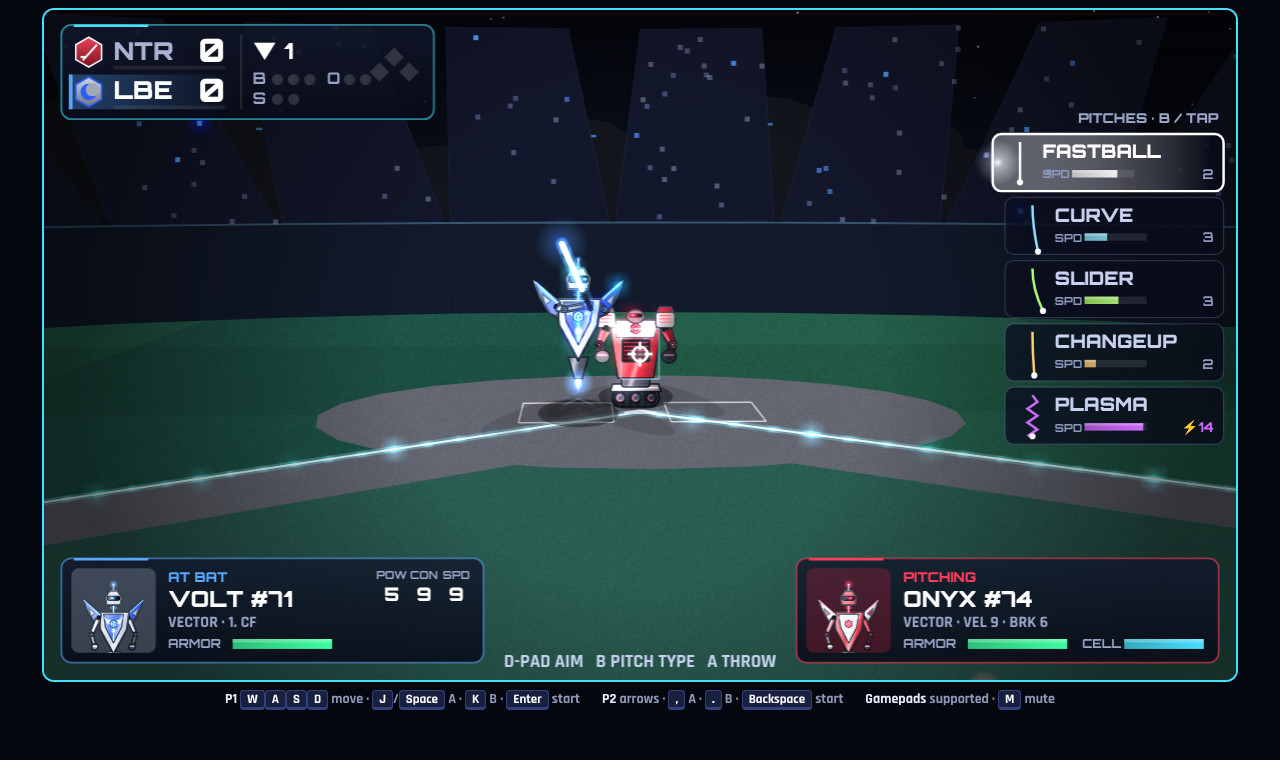
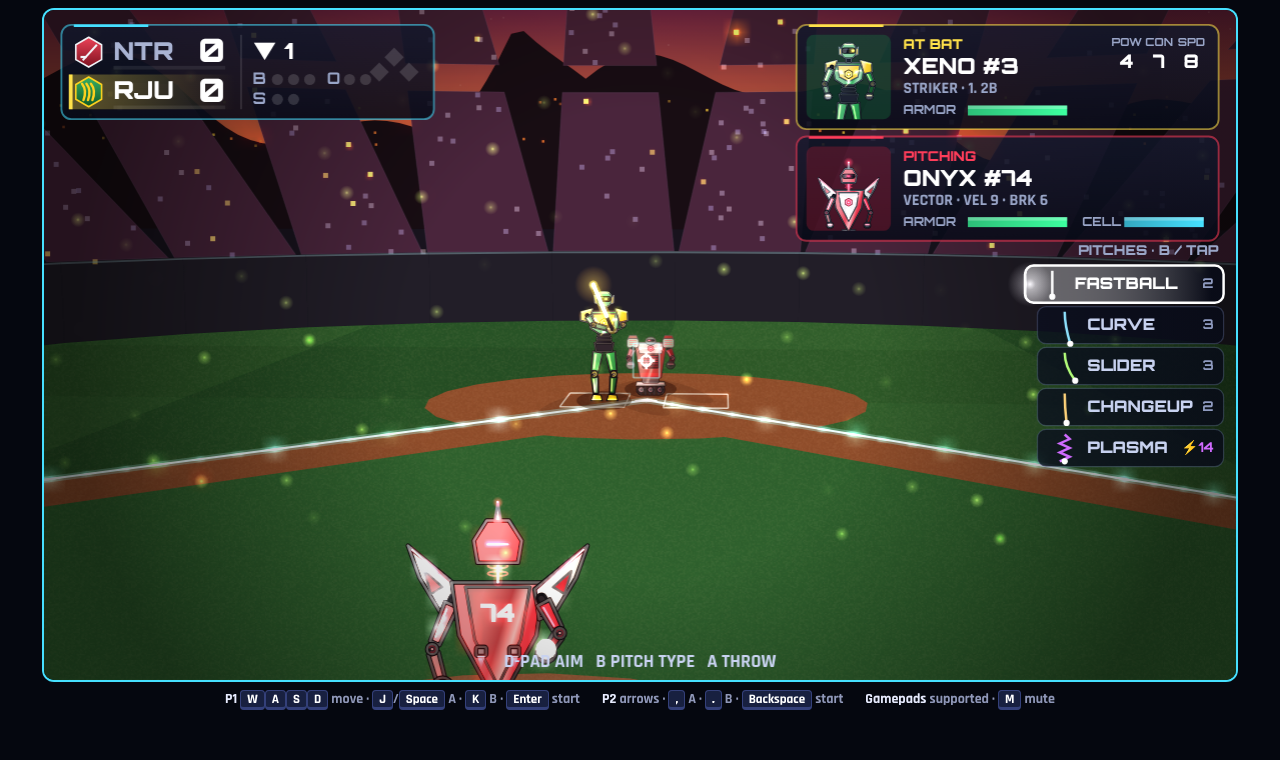
Iron Diamond: no background hiss, thumbstick controls that scale, visible pitcher, announcer fixes
- Audio: removed the constant crowd noise bed; cheers use two warm
  formants through a lowpass with one whistle at lower volume; softer
  music hats/snare and pitch whoosh
- Announcer on by default (migrates old settings), speech unlocked on the
  first tap for iOS, only cancels when already speaking, says Play ball /
  Home run derby / Welcome to training at the start, test line when
  toggled on
- Touch: thumbstick replaces the d-pad; buttons capture the pointer so a
  drifting finger doesn't release them; sizes scale with the screen;
  tablets get the controls below the picture, phones held sideways keep a
  translucent overlay; A/B show context labels (SWING/POWER, PITCH/TYPE,
  THROW, RUN/BACK, STRIKE/HEAVY, SKIP)
- Pitcher view: camera behind and beside the mound so the pitcher's back
  is in the lower left; HUD cards move to the top in that view

Claude-Session: https://claude.ai/code/session_01KT7dpaDVpetdRLu2bBn14i

diff --git a/iron-diamond/src/core.js b/iron-diamond/src/core.js
@@ -86,8 +86,9 @@ const Sfx = {
     this.rev.buffer = ir; const rg = ac.createGain(); rg.gain.value = 0.55; this.rev.connect(rg); rg.connect(this.master);
     const len = ac.sampleRate * 2; this.noiseBuf = ac.createBuffer(1, len, ac.sampleRate);
     const d = this.noiseBuf.getChannelData(0); for (let i = 0; i < len; i++) d[i] = Math.random() * 2 - 1;
-    this.startMusic(); this.crowdBed();
+    this.startMusic(); this.unlockSpeech();
   },
+  unlockSpeech() { try { if (!window.speechSynthesis || this._spk) return; this._spk = true; const u = new SpeechSynthesisUtterance(' '); u.volume = 0; speechSynthesis.speak(u); speechSynthesis.getVoices(); } catch (e) { } },
   toggleMute() { this.muted = !this.muted; store.set('ironDiamond.muted', this.muted); if (this.master) this.master.gain.value = this.muted ? 0 : 0.7; if (this.muted) try { speechSynthesis.cancel(); } catch (e) { } },
   out(node, wet) { node.connect(this.sfx); if (wet) { const g = this.ac.createGain(); g.gain.value = wet; node.connect(g); g.connect(this.rev); } },
   env(g, t, a, peak, d) { g.gain.setValueAtTime(0.0001, t); g.gain.exponentialRampToValueAtTime(peak, t + a); g.gain.exponentialRampToValueAtTime(0.0001, t + a + d); },
@@ -127,12 +128,13 @@ const Sfx = {
   // crowd: noise through vowel-like formants with a soft attack, plus whistles
   swell(dur, vol, base = 1, whistles = 2) {
     if (!this.ac) return; const ac = this.ac, t = ac.currentTime;
-    for (const [f, q, k] of [[520 * base, 2.2, 1], [1150 * base, 2.5, 0.7], [2600 * base, 3, 0.35]]) {
+    for (const [f, q, k] of [[420 * base, 1.4, 1], [880 * base, 1.8, 0.45]]) {
       const src = ac.createBufferSource(); src.buffer = this.noiseBuf; src.loop = true; const fl = ac.createBiquadFilter(); fl.type = 'bandpass'; fl.frequency.value = f; fl.Q.value = q; const g = ac.createGain();
+      const lp = ac.createBiquadFilter(); lp.type = 'lowpass'; lp.frequency.value = 1400; fl.connect(lp);
       g.gain.setValueAtTime(0.0001, t); g.gain.exponentialRampToValueAtTime(vol * k, t + 0.35); g.gain.setValueAtTime(vol * k, t + dur * 0.45); g.gain.exponentialRampToValueAtTime(0.0001, t + dur);
-      src.connect(fl); fl.connect(g); this.out(g, 0.5); src.start(t, Math.random()); src.stop(t + dur + 0.05);
+      src.connect(fl); lp.connect(g); this.out(g, 0.25); src.start(t, Math.random()); src.stop(t + dur + 0.05);
     }
-    for (let i = 0; i < whistles; i++) { const f = 1700 + Math.random() * 900; this.osc('sine', f, 0.35, vol * 0.18, { when: 0.2 + Math.random() * dur * 0.5, to: f * 1.25, attack: 0.05, wet: 0.4 }); }
+    for (let i = 0; i < Math.min(1, whistles); i++) { const f = 1700 + Math.random() * 900; this.osc('sine', f, 0.35, vol * 0.18, { when: 0.2 + Math.random() * dur * 0.5, to: f * 1.25, attack: 0.05, wet: 0.4 }); }
   },
   crowdBed() {
     if (!this.ac || this._bed) return; const ac = this.ac, g = ac.createGain(); g.gain.value = 0.05; this.out(g, 0.6);
@@ -143,7 +145,7 @@ const Sfx = {
   say(text) {
     try {
       if (this.muted || (typeof Game !== 'undefined' && Game.settings && Game.settings.announcer === false) || !window.speechSynthesis) return;
-      speechSynthesis.cancel(); const u = new SpeechSynthesisUtterance(text); u.pitch = 0.35; u.rate = 1.02; u.volume = 0.9;
+      if (speechSynthesis.speaking) speechSynthesis.cancel(); const u = new SpeechSynthesisUtterance(text); u.pitch = 0.35; u.rate = 1.02; u.volume = 0.9;
       const vs = speechSynthesis.getVoices(), v = vs.find(x => /en(-|_)US/i.test(x.lang) && /male|david|alex|daniel|fred/i.test(x.name)) || vs.find(x => /^en/i.test(x.lang)); if (v) u.voice = v;
       speechSynthesis.speak(u);
     } catch (e) { }
@@ -160,7 +162,7 @@ const Sfx = {
       case 'cash': this.fm(1318, 2, 0.8, 0.12, 0.07); this.fm(1760, 2, 0.8, 0.3, 0.07, { when: 0.08, wet: 0.3 }); break;
       case 'servo': this.osc('sawtooth', 260, 0.16, 0.035, { to: 640, lp: 1800, q: 5 }); this.nz(0.14, 0.02, { f: 3000, q: 3 }); break;
       // ---- pitching & hitting
-      case 'pitch': { const d = clamp(o.dur || 0.7, 0.3, 1.2); this.nz(d, 0.16, { f: 350, to: 2800, q: 1.4, attack: d * 0.7, wet: 0.15 }); this.osc('sawtooth', 120, 0.22, 0.04, { to: 340, lp: 900 }); break; }
+      case 'pitch': { const d = clamp(o.dur || 0.7, 0.3, 1.2); this.nz(d, 0.1, { f: 350, to: 2800, q: 1.4, attack: d * 0.7, wet: 0.15 }); this.osc('sawtooth', 120, 0.22, 0.04, { to: 340, lp: 900 }); break; }
       case 'plasma': { const d = clamp(o.dur || 0.7, 0.3, 1.2); this.nz(d, 0.14, { f: 500, to: 4000, q: 3, attack: d * 0.6 }); this.fm(220, 1.5, 6, d, 0.06, { attack: d * 0.5 }); this.osc('sawtooth', 160, d, 0.05, { to: 900, lp: 2400, q: 6 }); break; }
       case 'swing': this.nz(0.17, 0.12, { f: 500, to: 2200, q: 1.2, attack: 0.05 }); this.osc('sawtooth', 300, 0.1, 0.02, { to: 900, lp: 1500 }); break;
       case 'whiff': this.nz(0.14, 0.09, { f: 1600, to: 500, q: 1.1, attack: 0.03 }); break;
@@ -175,16 +177,16 @@ const Sfx = {
       case 'mitt': this.nz(0.07, 0.55, { type: 'lowpass', f: 1300, wet: 0.25 }); this.osc('sine', 190, 0.09, 0.35, { to: 85 }); this.nz(0.012, 0.25, { type: 'highpass', f: 4200 }); break;
       case 'catch': this.nz(0.05, 0.3, { type: 'lowpass', f: 1000 }); this.osc('sine', 160, 0.06, 0.16, { to: 90 }); break;
       case 'throw': this.nz(0.2, 0.08, { f: 700, to: 2400, q: 1.3, attack: 0.08 }); break;
-      case 'foul': this.nz(0.025, 0.4, { type: 'highpass', f: 2600 }); this.fm(1500, 2.76, 2, 0.12, 0.06); this.swell(0.9, 0.06, 0.8, 0); break;
+      case 'foul': this.nz(0.025, 0.4, { type: 'highpass', f: 2600 }); this.fm(1500, 2.76, 2, 0.12, 0.06); this.swell(0.8, 0.04, 0.8, 0); break;
       // ---- calls
       case 'out': this.osc('sawtooth', 220, 0.32, 0.12, { lp: 1700, lpTo: 350, wet: 0.35 }); this.osc('sawtooth', 165, 0.32, 0.1, { lp: 1700, lpTo: 350, detune: 7 }); break;
       case 'safe': this.fm(880, 3.5, 0.6, 0.45, 0.08, { wet: 0.35 }); this.fm(1320, 3.5, 0.6, 0.5, 0.06, { when: 0.07, wet: 0.35 }); break;
-      case 'run': [523, 659, 784, 1047].forEach((f, i) => this.osc('square', f, 0.14, 0.05, { when: i * 0.09, lp: 2200, wet: 0.4 })); this.swell(1.4, 0.09, 1, 2); break;
+      case 'run': [523, 659, 784, 1047].forEach((f, i) => this.osc('square', f, 0.14, 0.05, { when: i * 0.09, lp: 2200, wet: 0.4 })); this.swell(1.3, 0.06, 1, 0); break;
       case 'hr': { const ch = [[392, 494, 587], [440, 554, 659], [523, 659, 784]]; ch.forEach((c, k) => c.forEach(f => [0, 7, -7].forEach(dt => this.osc('sawtooth', f, k === 2 ? 0.9 : 0.25, 0.028, { when: k * 0.22, detune: dt, attack: 0.03, lp: 3200, lpTo: 900, wet: 0.5 }))));
-        this.swell(3.2, 0.2, 1, 5); for (let i = 0; i < 4; i++) this.nz(0.35, 0.25, { type: 'lowpass', f: 2200, to: 300, when: 0.8 + i * 0.3, wet: 0.7 }); break; }
-      case 'crowd': this.swell(1.8, 0.1, 1, 1); break;
-      case 'cheer': this.swell(1.9, 0.14, 1, 2); break;
-      case 'roar': this.swell(2.8, 0.22, 0.9, 4); break;
+        this.swell(2.8, 0.13, 1, 1); for (let i = 0; i < 4; i++) this.nz(0.35, 0.25, { type: 'lowpass', f: 2200, to: 300, when: 0.8 + i * 0.3, wet: 0.7 }); break; }
+      case 'crowd': this.swell(1.6, 0.06, 1, 0); break;
+      case 'cheer': this.swell(1.7, 0.09, 1, 1); break;
+      case 'roar': this.swell(2.4, 0.14, 0.9, 1); break;
       // ---- clash
       case 'clash': this.fm(150, 1.41, 9, 1.4, 0.22, { wet: 0.6 }); this.nz(0.5, 0.35, { type: 'lowpass', f: 3000, to: 400 }); this.osc('sawtooth', 440, 0.5, 0.05, { to: 880, lp: 2500, when: 0.1 }); break;
       case 'hit': this.fm(420, 2.3, 5, 0.16, 0.18, { wet: 0.3 }); this.nz(0.08, 0.4, { f: 1600, q: 1.5 }); this.osc('sine', 120, 0.1, 0.3, { to: 60 }); break;
@@ -205,8 +207,8 @@ const Sfx = {
         const when = next - this.ac.currentTime, bar = Math.floor(i / 16) % 4, s = i % 16, r = roots[bar];
         if (this.musicOn) {
           if (s % 4 === 0) { this.tone(55, 0.18, 'sine', 0.55, -25, when, this.music); }
-          if (s === 4 || s === 12) this.noise(0.14, 0.35, 1800, 0.7, when, 'bandpass', this.music);
-          if (s % 2 === 1) this.noise(0.03, 0.12, 8000, 1, when, 'highpass', this.music);
+          if (s === 4 || s === 12) this.noise(0.12, 0.2, 1400, 0.9, when, 'bandpass', this.music);
+          if (s % 4 === 2) this.noise(0.025, 0.04, 9000, 1, when, 'highpass', this.music);
           if (s % 2 === 0) this.tone(mtof(r - 12 + (s % 8 === 6 ? 12 : 0)), step * 1.7, 'sawtooth', 0.12, 0, when, this.music);
           const arp = [0, 7, 12, 15, 12, 7, 3, 7][s % 8];
           if (s % 2 === 0) this.tone(mtof(r + 24 + arp), step * 1.2, 'square', 0.035, 0, when, this.music);

diff --git a/iron-diamond/index.html b/iron-diamond/index.html
@@ -26,36 +26,36 @@
   #help { width: 100%; max-width: 1280px; box-sizing: border-box; display: flex; flex-wrap: wrap; gap: 6px 22px; justify-content: center; font-size: 14px; font-weight: 700; color: var(--muted); }
   #help b { color: var(--fg); font-weight: 700; }
   kbd { font-family: inherit; background: #182040; border: 1px solid #34407a; border-bottom-width: 3px; border-radius: 4px; padding: 0 6px; color: #fff; font-size: 13px; }
-  #touch { display: none; width: 100%; max-width: 640px; justify-content: space-between; align-items: center; user-select: none; -webkit-user-select: none; }
-  body.touch #touch { display: flex; }
+  :root { --stick: 170px; --btn: 84px; }
+  #touch { display: none; user-select: none; -webkit-user-select: none; touch-action: none; }
+  body.touch #touch { display: grid; grid-template-columns: 1fr auto 1fr; align-items: center; width: 100%; box-sizing: border-box; gap: 12px; }
   body.touch #help { display: none; }
-  #dpad { position: relative; width: 150px; height: 150px; border-radius: 50%; background: radial-gradient(circle, #141b36 0 55%, #0d1226 56%); border: 2px solid var(--line); touch-action: none; }
-  #dpad span { position: absolute; color: var(--muted); font-size: 20px; font-weight: 700; }
-  #dpad .u { left: 50%; top: 8px; transform: translateX(-50%); } #dpad .d { left: 50%; bottom: 8px; transform: translateX(-50%); }
-  #dpad .l { top: 50%; left: 12px; transform: translateY(-50%); } #dpad .r { top: 50%; right: 12px; transform: translateY(-50%); }
-  .mid { display: flex; flex-direction: column; gap: 10px; align-items: center; }
-  .btns { position: relative; width: 160px; height: 140px; }
-  #touch button { font-family: Orbitron, sans-serif; font-weight: 900; color: #fff; background: #141b36; border: 2px solid var(--line); touch-action: none; }
+  body.touch:not(.overlay) #touch { flex: 1 1 auto; align-content: center; padding-bottom: 12px; }
+  #stick { justify-self: start; position: relative; width: var(--stick); height: var(--stick); border-radius: 50%; touch-action: none;
+    background: radial-gradient(circle, rgba(70,224,255,.08) 0 28%, rgba(16,22,46,.9) 29% 100%); border: 2px solid rgba(70,224,255,.5); box-shadow: inset 0 0 30px rgba(70,224,255,.14), 0 8px 24px rgba(0,0,0,.45); }
+  #stick i { position: absolute; color: rgba(160,190,230,.55); font-style: normal; font-size: calc(var(--stick) * .11); line-height: 1; }
+  #stick .u { left: 50%; top: 6%; transform: translateX(-50%); } #stick .d { left: 50%; bottom: 6%; transform: translateX(-50%); }
+  #stick .l { top: 50%; left: 6%; transform: translateY(-50%); } #stick .r { top: 50%; right: 6%; transform: translateY(-50%); }
+  #knob { position: absolute; left: 50%; top: 50%; width: calc(var(--stick) * .44); height: calc(var(--stick) * .44); margin: calc(var(--stick) * -.22) 0 0 calc(var(--stick) * -.22); border-radius: 50%; pointer-events: none;
+    background: radial-gradient(circle at 35% 30%, #6a7cc0, #1d2547 72%); border: 2px solid #7fe8ff; box-shadow: 0 0 18px rgba(70,224,255,.5); transition: transform .08s; }
+  #stick.on #knob { transition: none; }
+  .btns { justify-self: end; display: grid; grid-template-columns: auto auto; gap: calc(var(--btn) * .14); align-items: end; }
+  #touch button { font-family: Orbitron, sans-serif; font-weight: 900; color: #fff; background: #141b36; border: 2px solid var(--line); touch-action: none; -webkit-user-select: none; user-select: none; }
   #touch button.on { background: #26305a; transform: scale(.94); }
+  .btns button { width: var(--btn); height: var(--btn); border-radius: 50%; display: flex; flex-direction: column; align-items: center; justify-content: center; font-size: calc(var(--btn) * .34); line-height: 1; gap: calc(var(--btn) * .04); }
+  .btns button span { font-family: Rajdhani, sans-serif; font-size: calc(var(--btn) * .15); letter-spacing: .05em; color: #c8d2f0; }
+  .btns .b { margin-top: calc(var(--btn) * .7); border-color: var(--pink) !important; box-shadow: 0 0 16px rgba(255,61,138,.3); }
+  .btns .a { margin-bottom: calc(var(--btn) * .5); border-color: var(--accent) !important; box-shadow: 0 0 16px rgba(70,224,255,.3); }
+  .mid { display: flex; flex-direction: column; gap: 10px; align-items: center; }
+  .mid button { border-radius: 999px; padding: .65em 1.2em; font-size: clamp(10px, calc(var(--btn) * .15), 15px); letter-spacing: .1em; white-space: nowrap; }
   #rotate { display: none; font-weight: 700; font-size: 14px; color: var(--muted); text-align: center; }
   @media (orientation: portrait) { body.touch #rotate { display: block; } }
-  body.touch #touch { max-width: 520px; }
-  .btns button { position: absolute; width: 66px; height: 66px; border-radius: 50%; font-size: 20px; }
-  .btns .a { right: 0; top: 10px; border-color: var(--accent) !important; box-shadow: 0 0 16px rgba(70,224,255,.3); }
-  .btns .b { left: 0; top: 64px; border-color: var(--pink) !important; box-shadow: 0 0 16px rgba(255,61,138,.3); }
-  .mid button { border-radius: 14px; padding: 8px 14px; font-size: 11px; letter-spacing: .1em; white-space: nowrap; }
-  @media (orientation: landscape) and (pointer: coarse) {
-    body.touch { padding: 4px; }
-    body.touch #stage { width: min(100%, calc((100dvh - 8px) * 16 / 9)); }
-    body.touch #touch { position: fixed; inset: auto 0 0 0; max-width: none; padding: 0 max(12px, env(safe-area-inset-left)) max(10px, env(safe-area-inset-bottom)) max(12px, env(safe-area-inset-right)); box-sizing: border-box; pointer-events: none; opacity: .55; }
-    body.touch #dpad { width: 128px; height: 128px; }
-    body.touch .btns { width: 140px; height: 118px; }
-    body.touch .btns button { width: 58px; height: 58px; font-size: 18px; }
-    body.touch .btns .b { top: 56px; }
-    body.touch .mid button { padding: 6px 10px; font-size: 10px; }
-    body.touch #touch > * { pointer-events: auto; }
-    body.touch .mid { position: fixed; bottom: max(8px, env(safe-area-inset-bottom)); left: 50%; transform: translateX(-50%); flex-direction: row; }
-  }
+  /* phones held sideways: controls float over the picture */
+  body.touch.overlay { padding: 4px; }
+  body.touch.overlay #touch { position: fixed; inset: auto 0 0 0; padding: 0 max(14px, env(safe-area-inset-left)) max(10px, env(safe-area-inset-bottom)) max(14px, env(safe-area-inset-right)); pointer-events: none; }
+  body.touch.overlay #touch > * { pointer-events: auto; }
+  body.touch.overlay #stick, body.touch.overlay .btns button { opacity: .62; }
+  body.touch.overlay .mid { flex-direction: row; align-self: end; }
   @media (prefers-reduced-motion: reduce) { * { transition: none !important; } }
 </style>
 </head>
@@ -71,9 +71,9 @@
 </div>
 <div id="rotate">Turn your phone sideways for the big-screen view</div>
 <div id="touch">
-  <div id="dpad" aria-label="Direction pad"><span class="u">▲</span><span class="d">▼</span><span class="l">◀</span><span class="r">▶</span></div>
+  <div id="stick" aria-label="Joystick"><i class="u">▲</i><i class="d">▼</i><i class="l">◀</i><i class="r">▶</i><div id="knob"></div></div>
   <div class="mid"><button data-k="start" aria-label="Start">START</button><button id="fs" aria-label="Full screen">⤢ FULL</button></div>
-  <div class="btns"><button class="b" data-k="b" aria-label="B button">B</button><button class="a" data-k="a" aria-label="A button">A</button></div>
+  <div class="btns"><button class="b" data-k="b" aria-label="B button">B<span id="lb">BACK</span></button><button class="a" data-k="a" aria-label="A button">A<span id="la">OK</span></button></div>
 </div>
 <script src="src/core.js"></script>
 <script src="src/data.js"></script>

diff --git a/iron-diamond/src/main.js b/iron-diamond/src/main.js
@@ -28,25 +28,62 @@
     const sc = Game.scene, live = sc instanceof GameScene && !sc.paused && !sc.m.over;
     if (!live && !(Game.taps || []).length) Input.touchLatch.a = true;
   });
-  // touch controls
+  // touch controls: a thumbstick plus A / B / Start that size themselves to the screen
   const touchEl = document.getElementById('touch');
   if (touchEl) {
     const bind = el => {
-      const k = el.dataset.k; const on = e => { e.preventDefault(); Input.touch[k] = true; Input.touchLatch[k] = true; el.classList.add('on'); unlock(); }; const off = e => { e.preventDefault(); Input.touch[k] = false; el.classList.remove('on'); };
-      el.addEventListener('pointerdown', on); el.addEventListener('pointerup', off); el.addEventListener('pointercancel', off); el.addEventListener('pointerleave', off);
+      const k = el.dataset.k;
+      el.addEventListener('pointerdown', e => { e.preventDefault(); try { el.setPointerCapture(e.pointerId); } catch (x) { } Input.touch[k] = true; Input.touchLatch[k] = true; el.classList.add('on'); unlock(); });
+      const off = e => { e.preventDefault(); Input.touch[k] = false; el.classList.remove('on'); };
+      el.addEventListener('pointerup', off); el.addEventListener('pointercancel', off);
     };
     touchEl.querySelectorAll('[data-k]').forEach(bind);
-    // d-pad: slide between directions
-    const dpad = document.getElementById('dpad');
-    if (dpad) {
-      const set = e => { const r = dpad.getBoundingClientRect(); const x = (e.clientX - r.left) / r.width - 0.5, y = (e.clientY - r.top) / r.height - 0.5; Input.touch.left = x < -0.17; Input.touch.right = x > 0.17; Input.touch.up = y < -0.17; Input.touch.down = y > 0.17; };
-      const clear = () => { Input.touch.left = Input.touch.right = Input.touch.up = Input.touch.down = false; };
-      dpad.addEventListener('pointerdown', e => { e.preventDefault(); dpad.setPointerCapture(e.pointerId); set(e); unlock(); });
-      dpad.addEventListener('pointermove', e => { if (e.buttons || e.pointerType === 'touch') set(e); });
-      dpad.addEventListener('pointerup', clear); dpad.addEventListener('pointercancel', clear);
-    }
+    const stick = document.getElementById('stick'), knob = document.getElementById('knob'); let sid = null;
+    const DIRS = ['left', 'right', 'up', 'down'];
+    const setV = e => {
+      const r = stick.getBoundingClientRect(), R = r.width / 2, m = R * 0.6; let dx = e.clientX - (r.left + R), dy = e.clientY - (r.top + R); const l = hyp(dx, dy);
+      if (l > m) { dx *= m / l; dy *= m / l; } knob.style.transform = `translate(${dx}px, ${dy}px)`;
+      const nx = dx / m, ny = dy / m, th = 0.38, now = { left: nx < -th, right: nx > th, up: ny < -th, down: ny > th };
+      for (const d of DIRS) { if (now[d] && !Input.touch[d]) Input.touchLatch[d] = true; Input.touch[d] = now[d]; }
+    };
+    const clear = () => { sid = null; stick.classList.remove('on'); knob.style.transform = ''; for (const d of DIRS) Input.touch[d] = false; };
+    stick.addEventListener('pointerdown', e => { e.preventDefault(); if (sid != null) return; sid = e.pointerId; try { stick.setPointerCapture(sid); } catch (x) { } stick.classList.add('on'); setV(e); unlock(); });
+    stick.addEventListener('pointermove', e => { if (e.pointerId === sid) setV(e); });
+    stick.addEventListener('pointerup', e => { if (e.pointerId === sid) clear(); }); stick.addEventListener('pointercancel', e => { if (e.pointerId === sid) clear(); });
     if (matchMedia('(pointer: coarse)').matches) document.body.classList.add('touch');
   }
+  // lay out picture + controls: below the picture when there's room (tablets), floating over it otherwise (phones sideways)
+  const stageEl = document.getElementById('stage');
+  function layoutTouch() {
+    const B = document.body; if (!B.classList.contains('touch')) return;
+    const vw = innerWidth, vh = innerHeight, base = Math.min(vw, vh), land = vw > vh;
+    let stick = clamp(base * 0.3, 120, 260), btn = clamp(base * 0.15, 64, 132), cw = vw - 32, ch = cw * 9 / 16, overlay = false;
+    if (!land) { const room = vh - ch - 90; stick = Math.max(110, Math.min(stick, room * 0.8)); btn = Math.max(60, Math.min(btn, room * 0.4)); }
+    else {
+      ch = Math.min(vh - 8, cw * 9 / 16); cw = ch * 16 / 9; let room = vh - ch - 16;
+      if (room < stick * 0.75) { const need = stick * 0.78, ch2 = vh - need - 16; if (ch2 * 16 / 9 >= vw * 0.75) { ch = ch2; cw = ch * 16 / 9; room = need; } else overlay = true; }
+      if (!overlay) { stick = Math.min(stick, room - 6); btn = Math.min(btn, (room - 6) * 0.5); }
+    }
+    stageEl.style.width = Math.floor(cw) + 'px';
+    document.documentElement.style.setProperty('--stick', Math.round(stick) + 'px'); document.documentElement.style.setProperty('--btn', Math.round(btn) + 'px');
+    B.classList.toggle('overlay', overlay);
+  }
+  addEventListener('resize', layoutTouch); addEventListener('orientationchange', () => setTimeout(layoutTouch, 200)); layoutTouch();
+  // A / B show what they do right now
+  const la = document.getElementById('la'), lb = document.getElementById('lb'); let lastLbl = '';
+  function touchLabels() {
+    const sc = Game.scene, m = sc && sc.m; let a = 'OK', b = 'BACK';
+    if (m && !sc.paused) {
+      const hb = m.pad(m.bat) != null, hf = m.pad(m.fld) != null;
+      if (m.state === 'pitch') { if (hb) { a = 'SWING'; b = 'POWER'; } else if (hf) { a = m.pt.pickSel ? 'PICKOFF' : 'PITCH'; b = 'TYPE'; } }
+      else if (m.state === 'play') { if (hf) { a = m.ball && m.ball.held && m.ball.held.f ? 'THROW' : 'CATCH'; b = '—'; } else if (hb) { a = 'RUN'; b = 'BACK'; } }
+      else if (m.state === 'clash') { a = 'STRIKE'; b = 'HEAVY'; }
+      else if (m.state === 'replay') { a = 'SKIP'; b = '—'; }
+      else { a = '—'; b = '—'; }
+    }
+    const key = a + '|' + b; if (key !== lastLbl && la && lb) { lastLbl = key; la.textContent = a; lb.textContent = b; }
+  }
+
 
   const fsb = document.getElementById('fs');
   if (fsb) {
@@ -84,7 +121,8 @@
   function frame(now) {
     const raw = now - last; ema = ema * 0.95 + Math.min(100, raw) * 0.05;
     if (FX.high && FX.auto && document.visibilityState === 'visible' && now > 4000) { slowT = ema > 24 ? slowT + raw / 1000 : 0; if (slowT > 3) { FX.high = false; toast = 'EFFECTS LOWERED FOR SMOOTHER PLAY'; toastT = 3; } }
-    Game.touchLand = document.body.classList.contains('touch') && innerWidth > innerHeight;
+    Game.touchLand = document.body.classList.contains('overlay');
+    touchLabels();
     acc += Math.min(0.1, (now - last) / 1000); last = now;
     let n = 0;
     while (acc >= STEP && n < 5) {

diff --git a/iron-diamond/src/render.js b/iron-diamond/src/render.js
@@ -4,7 +4,7 @@ const ease = k => k * k * (3 - 2 * k);
 function matchCamera(m) {
   const k = ease(m.camK), c = m.cam;
   const fx = clamp(m.focus.x, -230, 230), fy = clamp(m.focus.y, 0, 330);
-  const pc = m.pitchCam(), bp = pc ? [2.6, 70, 10] : [0, -31, 11.5], bt = pc ? [0, 0, 3.0] : [0, 40, 2.6], bf = pc ? 1300 : 860;
+  const pc = m.pitchCam(), bp = pc ? [-4.8, 90, 13.5] : [0, -31, 11.5], bt = pc ? [0.4, 0, 3.6] : [0, 40, 2.6], bf = pc ? 1150 : 860;
   const fp = [fx * 0.7, fy - 150, 112 + fy * 0.1], ft = [fx, fy + 18, 0], ff = 640;
   const sh = m.shake * 1.2;
   c.set(lerp(bp[0], fp[0], k) + rnd(-sh, sh) * 0.3, lerp(bp[1], fp[1], k), lerp(bp[2], fp[2], k) + rnd(-sh, sh) * 0.2, lerp(bt[0], ft[0], k), lerp(bt[1], ft[1], k), lerp(bt[2], ft[2], k), lerp(bf, ff, k));
@@ -53,7 +53,7 @@ function drawMatch(ctx, m) {
     const pcam = m.pitchCam();
     let sc = 1; if (pitchView && f.pos === 'C') { o.back = !pcam; o.crouch = 0.5; o.alpha = pcam ? 0.7 : 0.42; sc = pcam ? 0.6 : 0.62; y = pcam ? -5.5 : -4.5; }
     if (pitchView && f.pos === 'P' && pt) {
-      o.back = pcam; if (pcam) o.alpha = 0.92;
+      o.back = pcam;
       if (pt.stage === 'windup') o.throwArm = clamp((pt.t - (pt.wt - 0.6)) / 0.6, 0, 1) * 0.6;
       else if (pt.stage === 'flight') o.throwArm = clamp(0.6 + (pt.t - pt.t0) / 0.25 * 0.4, 0, 1);
       else if (pt.stage === 'aim') o.ball = true;
@@ -239,7 +239,7 @@ function drawHUD(ctx, m, pitchView) {
   if (pitchView && m.pt && m.state !== 'intro') {
     // batter card
     const bt = m.batter(), bs = m.sides[m.bat];
-    const TL = Game.touchLand; robotCard(ctx, TL ? W - 354 : 14, TL ? 12 : H - 98, bt, bs, 'AT BAT', `${bs.batIdx + 1}. ${bt.pos}`, [['POW', m.st(bt, 'pow')], ['CON', m.st(bt, 'con')], ['SPD', m.st(bt, 'spd')]]);
+    const TL = Game.touchLand || m.pitchCam(); robotCard(ctx, TL ? W - 354 : 14, TL ? 12 : H - 98, bt, bs, 'AT BAT', `${bs.batIdx + 1}. ${bt.pos}`, [['POW', m.st(bt, 'pow')], ['CON', m.st(bt, 'con')], ['SPD', m.st(bt, 'spd')]]);
     const pr = m.pitcher(), ps = m.sides[m.fld];
     robotCard(ctx, W - 354, TL ? 102 : H - 98, pr, ps, 'PITCHING', `VEL ${m.st(pr, 'vel')} · BRK ${m.st(pr, 'brk')}`, null, pr.battery / 100);
     if (humanFld) drawPitchRail(ctx, m, pr, ps, TL);

diff --git a/iron-diamond/src/ui.js b/iron-diamond/src/ui.js
@@ -7,6 +7,7 @@ const Game = {
   save() { store.set('ironDiamond.settings', this.settings); Sfx.musicOn = this.settings.music; applyFx(); },
 };
 function applyFx() { const f = Game.settings.fx; FX.high = f !== 'low'; FX.auto = f === 'auto'; FX.haptics = Game.settings.haptics; }
+if (!Game.settings._v7) { Game.settings.announcer = true; Game.settings._v7 = true; store.set('ironDiamond.settings', Game.settings); }
 Sfx.musicOn = Game.settings.music; applyFx();
 const DIFF_NAMES = ['ROOKIE', 'PRO', 'LEGEND'];
 function tapZone(x, y, w, h, fn) { (Game.taps = Game.taps || []).push({ x, y, w, h, fn }); }
@@ -423,7 +424,7 @@ class SettingsScene {
       { label: 'CLASHES', value: s.clash ? 'ON' : 'OFF', ch: () => { s.clash = !s.clash; } },
       { label: 'EFFECTS', value: s.fx.toUpperCase(), ch: cyc('fx', ['auto', 'high', 'low']), help: 'AUTO lowers glow and light effects on slow phones' },
       { label: 'SOUND', value: Sfx.muted ? 'OFF' : 'ON', ch: () => Sfx.toggleMute() },
-      { label: 'ANNOUNCER', value: s.announcer ? 'ON' : 'OFF', ch: () => { s.announcer = !s.announcer; }, help: 'A stadium voice calls strikeouts, homers, steals and clashes' },
+      { label: 'ANNOUNCER', value: s.announcer ? 'ON' : 'OFF', ch: () => { s.announcer = !s.announcer; if (s.announcer) setTimeout(() => Sfx.say('Announcer on.'), 50); }, help: 'A stadium voice calls strikeouts, homers, steals and clashes' },
       { label: 'MUSIC', value: s.music ? 'ON' : 'OFF', ch: () => { s.music = !s.music; } },
       { label: 'VIBRATION', value: s.haptics ? 'ON' : 'OFF', ch: () => { s.haptics = !s.haptics; } },
       { label: 'BACK', back: true },

diff --git a/iron-diamond/src/match.js b/iron-diamond/src/match.js
@@ -88,6 +88,7 @@ class Match {
   }
   wait(sec, fn) { this.state = 'wait'; this.timer = sec; this.next = fn; }
   startHalf() {
+    if (this.inning === 1 && this.half === 0 && !this.saidPlayBall) { this.saidPlayBall = true; Sfx.say(this.cfg.derby ? 'Home run derby!' : this.cfg.practice ? 'Welcome to training.' : 'Play ball!'); }
     if (this.cfg.derby) { this.outs = 0; this.buildFielders(); this.view = 'bat'; this.banner('HOME RUN DERBY', '#ffffff', this.sides[0].team.g, 1.6, 48, `${this.cfg.derby.outs} OUTS · ONLY HOMERS COUNT`); this.derby = { hr: 0, outs: 0, long: 0, total: 0, last: null }; return this.wait(1.6, () => this.newPitch(true)); }
     if (this.cfg.practice) { this.outs = 0; this.buildFielders(); this.view = 'bat'; return this.wait(0.3, () => this.newPitch(true)); }
     this.outs = 0; this.bases = [null, null, null]; this.balls = 0; this.strikes = 0;

diff --git a/iron-diamond/README.md b/iron-diamond/README.md
@@ -13,7 +13,15 @@ npm start      # then http://localhost:8080/iron-diamond/
 ![batting](../docs/screenshots/iron-diamond/batting.png)
 ![clash](../docs/screenshots/iron-diamond/clash.png)
 
-## On a phone
+## On a phone or tablet
+
+Touch screens get a thumbstick (slide your thumb; the knob follows it) and big
+A / B buttons that are labelled with what they do right now (SWING, POWER,
+PITCH, THROW, STRIKE…). Everything scales to the screen: on tablets the
+controls sit below the picture at full size; on a phone held sideways they float
+over it, translucent.
+
+
 
 Hold the phone sideways for the full-screen view; the d-pad, A, B and Start
 appear as translucent touch buttons and the HUD moves to the top of the screen.
@@ -120,16 +128,15 @@ replaced from the bench (or by a scrap drone).
 
 ## Cameras and sound
 
-- **Pitching view**: when you pitch against the CPU the camera sits over the
-  pitcher's shoulder looking in at the batter (left/right aiming is mirrored to
+- **Pitching view**: when you pitch against the CPU the camera sits behind and
+  beside the pitcher (you see his back in the lower left) looking in at the batter (left/right aiming is mirrored to
   match); batting stays behind the plate. The switch to the fielding camera is a
   quick broadcast-style cut. Settings → Pitching View can put it back behind the
   batter.
 - **Sound**: all synthesized, with a stadium reverb: a layered bat crack that
   gets louder and brighter the better you square it up, a mitt pop, a pitch
   whoosh timed to the flight, metallic FM clangs in clashes, explosions, a
-  formant crowd with whistles, and brass fanfares on homers. An optional
-  **announcer** (Settings) calls strikeouts, walks, homers, steals, clashes and
+  formant crowd with whistles, and brass fanfares on homers. The **announcer** (on by default; Settings) calls strikeouts, walks, homers, steals, clashes and
   the final out using the browser's speech voice.
 
 ## Broadcast touches
